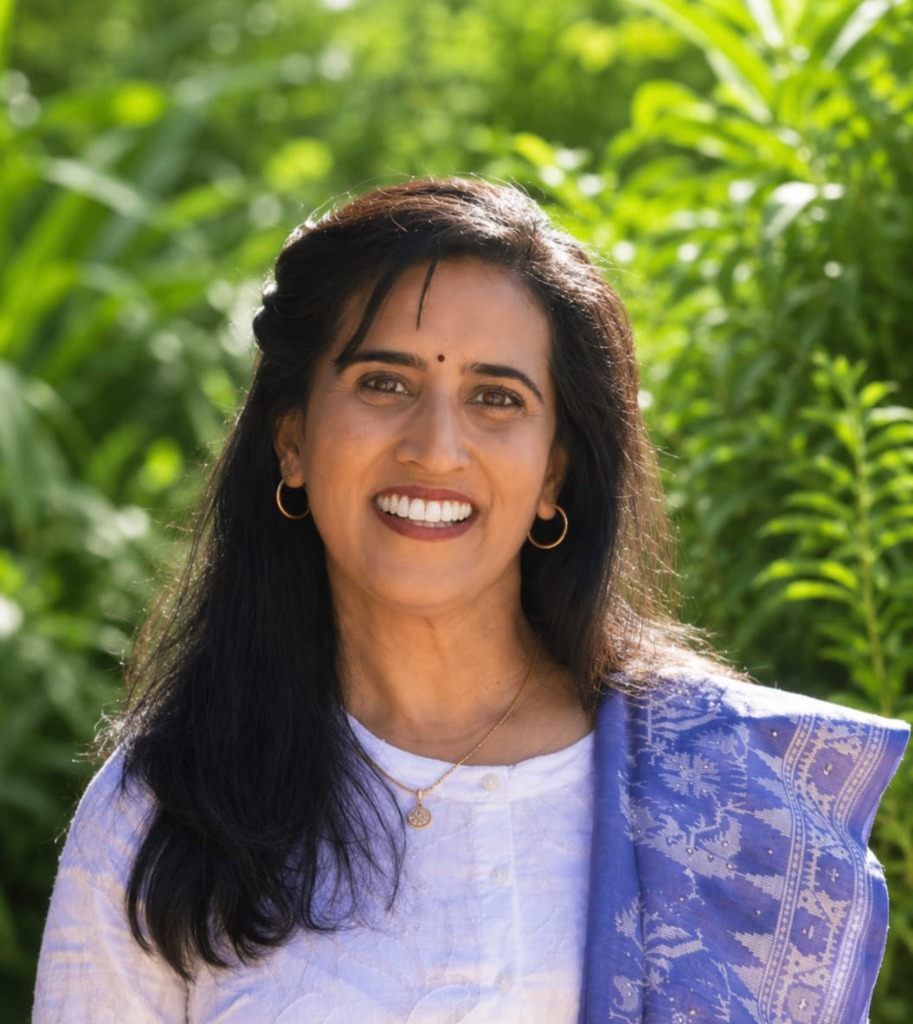
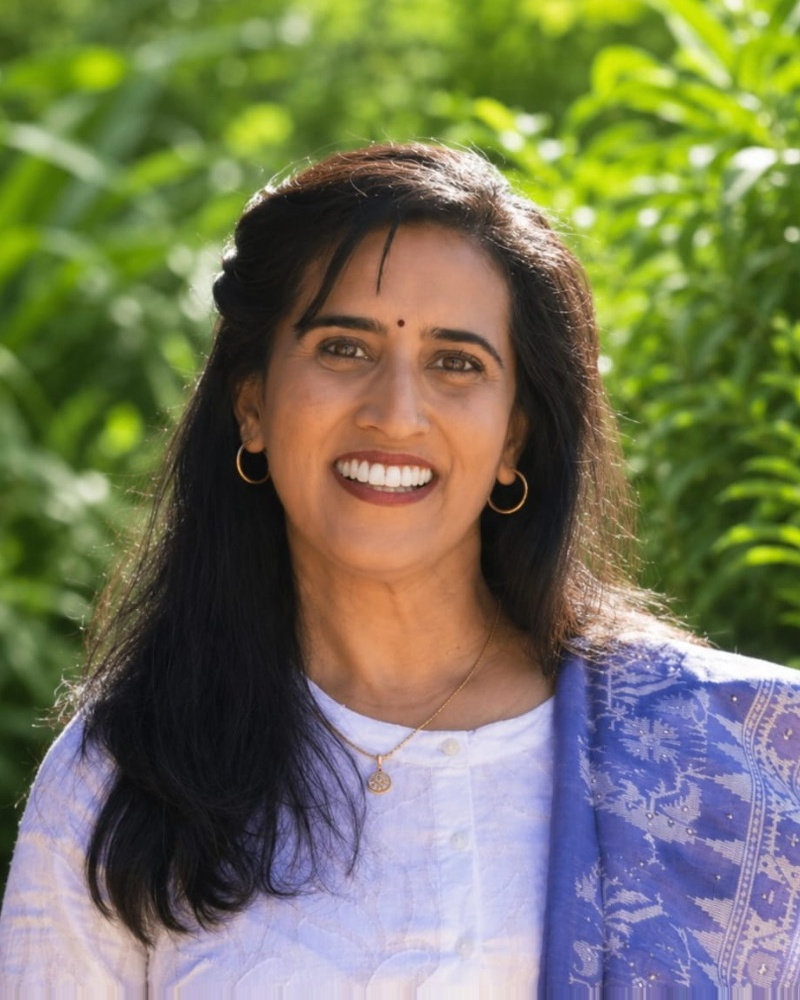
improving responsivness

diff --git a/src/pages/Home.jsx b/src/pages/Home.jsx
@@ -2780,10 +2780,10 @@ export default function Home({ onNavigate }) {
             {/* Row 1: First 4 Cards */}
             <div className="leadership-row-1" style={{ display: 'grid', gridTemplateColumns: 'repeat(4, 1fr)', gap: '1.2rem', width: '100%' }}>
               {[
-                { name: 'Late Mrs. Renuka Nagaraju', role: 'Founder Inspiration', creds: 'Suprada Wellness', img: '/assets/Founders/nagaraju_lady.jpg', objectPosition: 'center 15%' },
-                { name: 'Acharya Dr. M. Nagaraju', role: 'Chairperson', creds: 'Suprada Wellness', img: '/assets/Founders/nagaraju_man.jpg', objectPosition: 'center 15%' },
-                { name: 'Mr. Sunil Jayaraj', role: 'Founder', creds: 'Suprada Wellness', img: '/assets/Founders/sunil_jayaraj.jpg', objectPosition: 'center 18%' },
-                { name: 'Dr. Prema Ramadas, MD', role: 'Co-founder', creds: 'Suprada Wellness', img: '/assets/Founders/prema_ramadas.jpg', objectPosition: 'center 15%' }
+                { name: 'Late Mrs. Renuka Nagaraju', role: 'Founder Inspiration', creds: 'Suprada Wellness', img: '/assets/Founders/nagaraju_lady.jpg', objectPosition: 'center top' },
+                { name: 'Acharya Dr. M. Nagaraju', role: 'Chairperson', creds: 'Suprada Wellness', img: '/assets/Founders/nagaraju_man.jpg', objectPosition: 'center top' },
+                { name: 'Mr. Sunil Jayaraj', role: 'Founder', creds: 'Suprada Wellness', img: '/assets/Founders/sunil_jayaraj.jpg', objectPosition: 'center top' },
+                { name: 'Dr. Prema Ramadas, MD', role: 'Co-founder', creds: 'Suprada Wellness', img: '/assets/Founders/prema_ramadas.jpg', objectPosition: 'center top' }
               ].map((doc, idx) => (
                 <div key={idx} className="editorial-master-card" style={{ height: '330px', width: '100%', overflow: 'hidden' }}>
                   <img 
@@ -2793,7 +2793,7 @@ export default function Home({ onNavigate }) {
                       width: '100%', 
                       height: '100%', 
                       objectFit: 'cover', 
-                      objectPosition: doc.objectPosition || 'center 18%',
+                      objectPosition: doc.objectPosition || 'center top',
                       transition: 'transform 0.5s ease'
                     }} 
                   />
@@ -2815,9 +2815,9 @@ export default function Home({ onNavigate }) {
             {/* Row 2: Remaining 3 Cards Centered */}
             <div className="leadership-row-2" style={{ display: 'grid', gridTemplateColumns: 'repeat(3, 1fr)', gap: '1.2rem', width: '75%', margin: '0 auto' }}>
               {[
-                { name: 'Smt. Priya Amaresh', role: 'Chief Yoga and Wellness Advisor', creds: 'Suprada Wellness', img: '/assets/Founders/priya_amaresh.jpg', objectPosition: 'center 18%' },
-                { name: 'Srinivas Ramadas', role: 'Director Operations', creds: 'Suprada Wellness', img: '/assets/Founders/srinivas_ramadas.jpg', objectPosition: 'center 22%' },
-                { name: 'Dr. Vinaya, B.N.Y.S', role: 'Chief Medical Officer', creds: 'Suprada Wellness', img: '/assets/Founders/vinaya.jpg', objectPosition: 'center 18%' }
+                { name: 'Smt. Priya Amaresh', role: 'Chief Yoga and Wellness Advisor', creds: 'Suprada Wellness', img: '/assets/Founders/priya_amaresh.jpg', objectPosition: 'center top' },
+                { name: 'Srinivas Ramadas', role: 'Director Operations', creds: 'Suprada Wellness', img: '/assets/Founders/srinivas_ramadas.jpg', objectPosition: 'center top' },
+                { name: 'Dr. Vinaya, B.N.Y.S', role: 'Chief Medical Officer', creds: 'Suprada Wellness', img: '/assets/Founders/vinaya.jpg', objectPosition: 'center top' }
               ].map((doc, idx) => (
                 <div key={idx} className="editorial-master-card" style={{ height: '330px', width: '100%', overflow: 'hidden' }}>
                   <img 
@@ -2827,7 +2827,7 @@ export default function Home({ onNavigate }) {
                       width: '100%', 
                       height: '100%', 
                       objectFit: 'cover', 
-                      objectPosition: doc.objectPosition || 'center 18%',
+                      objectPosition: doc.objectPosition || 'center top',
                       transition: 'transform 0.5s ease'
                     }} 
                   />

diff --git a/src/index.css b/src/index.css
@@ -3107,7 +3107,7 @@ html, body {
   .leadership-cards-wrapper .editorial-master-card img {
     height: 100% !important;
     object-fit: cover !important;
-    object-position: center 10% !important;
+    object-position: center top !important;
     transform: none !important;
   }
 
